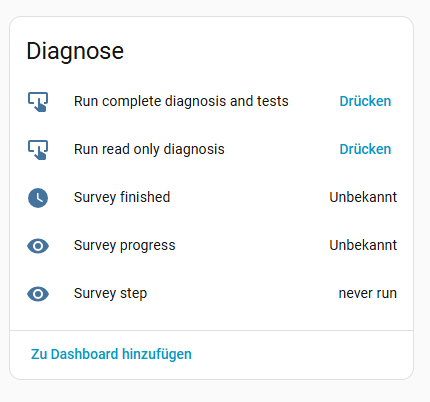
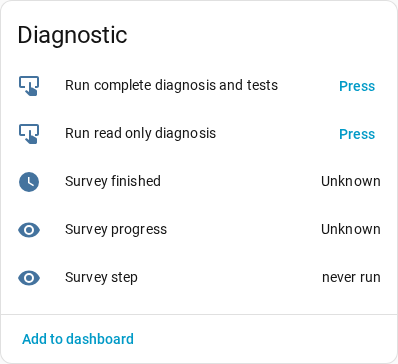
Screenshots in English, and two config-flow display bugs they showed
- The address form printed "Translation [formatjs Error: MISSING_VALUE]"
  on its first showing: its description ends in {error}, passed only after
  an error. Now passed empty from the start, with a test.
- Home Assistant renders a section's description as plain text, so every
  options section showed literal asterisks and the tier table as pipes.
  The six section texts are short plain text, the tier table is a
  sentence, and a test keeps markdown out of both.
- device-survey/images: the device page's card and the add-integration
  dialog retaken in English; the control test's options section is new and
  shown in doc/integration_options.md, which also says Polling opens
  expanded.
- doc/development.md: how to take these screenshots headless, against the
  simulator, from a scratch instance.

diff --git a/custom_components/sungrow_modbus/config_flow.py b/custom_components/sungrow_modbus/config_flow.py
@@ -993,7 +993,9 @@ class SungrowConfigFlow(ConfigFlow, domain=DOMAIN):
     ) -> ConfigFlowResult:
         """Take the connection details from the user."""
         errors: dict[str, str] = {}
-        placeholders: dict[str, str] = {}
+        # The description ends in `{error}`, so it must be present on the
+        # first showing too, or the frontend prints a formatjs error instead.
+        placeholders: dict[str, str] = {"error": ""}
 
         if user_input is not None:
             try:
@@ -2005,16 +2007,14 @@ class SungrowOptionsFlow(OptionsFlow):
 
     @callback
     def _async_tier_table(self, current: dict[str, int]) -> dict[str, str]:
-        """Return a markdown table of what each tier actually reads.
+        """Return what each tier actually reads, as one plain sentence.
 
-        A config-flow form cannot render a data table, so this goes into the
-        step description as markdown. It answers the question four bare
-        numbers raise and cannot: what am I slowing down?
+        It answers the question four bare numbers raise and cannot: what am
+        I slowing down? Plain text, because Home Assistant renders a
+        section's description without markdown, so a table would arrive as a
+        row of pipes.
         """
-        rows = [
-            "| Tier | Interval | Registers | Includes |",
-            "| --- | --- | --- | --- |",
-        ]
+        parts = []
         for tier, components in TIER_COMPONENTS.items():
             fields = sorted(
                 name
@@ -2022,10 +2022,12 @@ class SungrowOptionsFlow(OptionsFlow):
                 for name in COMPONENTS[component].declared_fields
             )
             interval = current.get(tier, DEFAULT_INTERVALS[tier])
-            shown = "**never**" if interval == INTERVAL_NEVER else f"{interval} s"
+            shown = "never" if interval == INTERVAL_NEVER else f"every {interval} s"
             examples = ", ".join(name.replace("_", " ") for name in fields[:3])
-            rows.append(f"| `{tier}` | {shown} | {len(fields)} | {examples}, … |")
-        return {"tiers": "\n".join(rows)}
+            parts.append(
+                f"{tier.capitalize()}, {shown}: {len(fields)} registers ({examples}, …)"
+            )
+        return {"tiers": "; ".join(parts) + "."}
 
     @callback
     def _async_load_now(self) -> str:
@@ -2049,13 +2051,13 @@ class SungrowOptionsFlow(OptionsFlow):
             return "The inverter has not reported a load figure yet."
         if reported < 0:
             return (
-                f"Right now this inverter reports a house load of **{reported:.0f} W**."
+                f"Right now this inverter reports a house load of {reported:.0f} W."
                 " A negative load is what an unmetered generator looks like: the"
                 " house appears to be using less than nothing because something is"
                 " producing that the inverter cannot see."
             )
         return (
-            f"Right now this inverter reports a house load of **{reported:.0f} W**, "
+            f"Right now this inverter reports a house load of {reported:.0f} W, "
             "which does not include anything it cannot see."
         )
 
@@ -2067,7 +2069,7 @@ class SungrowOptionsFlow(OptionsFlow):
         no register reaches -- whether a dongle is on its cable or its WiFi,
         which is not determinable and not guessed.
 
-        **It asks register 6100, not 13265**, and the difference is a wrong
+        It asks register 6100, not 13265, and the difference is a wrong
         answer rather than a detail. 13265 names the communication module
         that is *fitted*; 6100 says which path this endpoint actually is,
         because Sungrow does not forward the 6100 block through a dongle. A
@@ -2109,7 +2111,7 @@ class SungrowOptionsFlow(OptionsFlow):
             route = (
                 "reached through a communication module, so a WiNet-S, WiNet-S2 "
                 "or Logger is in the path — register 6100 was refused. Whether it "
-                "is using its Ethernet socket or its WiFi is **not** determinable "
+                "is using its Ethernet socket or its WiFi is not determinable "
                 "over Modbus, and that is the part only you can tell us"
             )
         else:
@@ -2130,13 +2132,13 @@ class SungrowOptionsFlow(OptionsFlow):
             # dongle is screwed to the wall needs to see that we know too,
             # or a correct "its own LAN port" reads as a mistake.
             fitted = (
-                f" A communication module is fitted and names itself **{module}**,"
+                f" A communication module is fitted and names itself {module},"
                 " which is a different question from which path this endpoint is:"
                 " a house can have a dongle and a cable at once."
             )
 
         return (
-            f"Already measured, so you do not need to tell us: this is **{model}**, "
+            f"Already measured, so you do not need to tell us: this is {model}, "
             f"{route}.{fitted}"
         )
 
@@ -2165,15 +2167,15 @@ class SungrowOptionsFlow(OptionsFlow):
 
         capacity = value("battery_capacity_high_precision")
         reported = (
-            f"Your battery reports **{capacity} kWh**" if capacity else "Your battery"
+            f"Your battery reports {capacity} kWh" if capacity else "Your battery"
         )
 
         if Capability.SUNGROW_BATTERY in runtime.capabilities:
             model = model_for_capacity(capacity)
             if model is not None:
                 return (
-                    f"{reported}, which matches a Sungrow **{model.name}**. Its "
-                    f"datasheet gives **{model.conservative_w} W** conservatively "
+                    f"{reported}, which matches a Sungrow {model.name}. Its "
+                    f"datasheet gives {model.conservative_w} W conservatively "
                     f"({model.nominal_w} W nominal), and that is what is used."
                 )
 
@@ -2184,12 +2186,12 @@ class SungrowOptionsFlow(OptionsFlow):
             return (
                 f"{reported}, which is not a Sungrow SBR or SBH. Its BMS reports a "
                 f"maximum charge current that works out to about "
-                f"**{suggestion} W** at the pack's current voltage — which reads "
+                f"{suggestion} W at the pack's current voltage — which reads "
                 "high at a high state of charge, so treat it as a starting point."
             )
         return (
             f"{reported}, and its BMS does not report a maximum charge current, so "
             f"there is nothing to derive one from. Without a value here the "
-            f"integration falls back to **{FALLBACK_W} W**, which is the YAML "
+            f"integration falls back to {FALLBACK_W} W, which is the YAML "
             "package's default rather than a recommendation."
         )

diff --git a/tests/test_polling_options.py b/tests/test_polling_options.py
@@ -155,7 +155,7 @@ async def test_the_options_flow_shows_what_each_group_contains(
 
     table = result["description_placeholders"]["tiers"]
     for tier in DEFAULT_INTERVALS:
-        assert f"`{tier}`" in table
+        assert tier.capitalize() in table
     # The register counts, so the trade is visible. Derived rather than
     # written down: this assertion was a literal `| 61 |` and broke the first
     # time a register was added to a tier, which says nothing about the table
@@ -164,7 +164,7 @@ async def test_the_options_flow_shows_what_each_group_contains(
         count = len(
             {name for c in components for name in COMPONENTS[c].declared_fields}
         )
-        assert f"| {count} |" in table, f"{tier} should show its {count} registers"
+        assert f"{count} registers" in table, f"{tier} should show its {count}"
     assert "load power" in table
 
 
@@ -327,3 +327,31 @@ async def test_the_permissions_step_leaves_the_other_options_alone(
     # as the default anyway -- but only because `DEFAULT_PERMISSIONS` is
     # merged in first, which is the part worth pinning.
     assert entry.options[CONF_PERMISSIONS].keys() == DEFAULT_PERMISSIONS.keys()
+
+
+async def test_the_options_sections_carry_no_markdown(
+    hass: HomeAssistant, sungrow_unit: MockModbusUnit
+) -> None:
+    """Home Assistant renders a section's description as plain text.
+
+    Asterisks, backticks and a table's pipes arrive on screen as they are,
+    and blank lines collapse, so neither the text nor what fills it may
+    carry any.
+    """
+    import json
+    from pathlib import Path
+
+    import custom_components.sungrow_modbus as component
+
+    strings = json.loads((Path(component.__file__).parent / "strings.json").read_text())
+    marks = ("**", "`", "|", "\n", "---")
+    for name, section in strings["options"]["step"]["init"]["sections"].items():
+        for mark in marks:
+            assert mark not in section["description"], (name, mark)
+
+    entry = await _setup(hass, sungrow_unit)
+    result = await hass.config_entries.options.async_init(entry.entry_id)
+    placeholders = result["description_placeholders"]
+    for name in ("tiers", "reported_load", "measured", "battery_status"):
+        for mark in marks:
+            assert mark not in placeholders[name], (name, mark)

diff --git a/tests/test_config_flow_connection.py b/tests/test_config_flow_connection.py
@@ -192,3 +192,35 @@ def test_a_wallbox_read_through_the_dongle_is_warned_about_before_a_cable() -> N
     assert not _loses_wallbox(with_wallbox, direct=None)
     assert not _loses_wallbox(own_address, direct=True)
     assert not _loses_wallbox(without, direct=True)
+
+
+async def test_the_address_form_has_every_placeholder_on_first_showing(
+    hass: HomeAssistant,
+) -> None:
+    """A placeholder missing from the first showing reads as a formatjs error.
+
+    The frontend renders `Translation [formatjs Error: MISSING_VALUE]` in
+    place of the whole description, which is what a user saw on the address
+    form until `error` was passed before any error had happened.
+    """
+    import json
+    from pathlib import Path
+    import re
+
+    import custom_components.sungrow_modbus as component
+
+    strings = json.loads((Path(component.__file__).parent / "strings.json").read_text())
+    wanted = set(
+        re.findall(r"{(\w+)}", strings["config"]["step"]["manual"]["description"])
+    )
+    result = await hass.config_entries.flow.async_init(
+        DOMAIN, context={"source": SOURCE_USER}
+    )
+    result = await hass.config_entries.flow.async_configure(
+        result["flow_id"], {"next_step_id": "setup_diagnostics"}
+    )
+    result = await hass.config_entries.flow.async_configure(
+        result["flow_id"], {"next_step_id": "manual"}
+    )
+    assert result["step_id"] == "manual"
+    assert wanted <= set(result["description_placeholders"] or {})

diff --git a/doc/development.md b/doc/development.md
@@ -325,6 +325,60 @@ a commit, a green CI run and a sync. HACS gets its own config directory
 because it downloads into `<config>/custom_components/`, which on the dev
 instance is a symlink into this repository.
 
+## Screenshots for the docs
+
+The images in `device-survey/images/` are taken headless, against the
+simulator, from a **second** Home Assistant. Never the one on :8123: its entry
+may point at real hardware, and a screenshot session clicks through flows.
+
+1. **A browser, outside the repository.** The container has none. Playwright
+   in a venv of its own, with its Chromium:
+
+   ```bash
+   python3 -m venv /tmp/pw && /tmp/pw/bin/pip install playwright
+   PLAYWRIGHT_BROWSERS_PATH=/tmp/pw/browsers /tmp/pw/bin/playwright install chromium
+   ```
+
+   The headless shell needs five libraries the image lacks. Without root,
+   unpack them beside it and point `LD_LIBRARY_PATH` there:
+
+   ```bash
+   mkdir -p /tmp/pw/debs /tmp/pw/lib && cd /tmp/pw/debs
+   apt-get download libatk1.0-0 libatk-bridge2.0-0 libxcomposite1 libxdamage1 libatspi2.0-0
+   for d in *.deb; do dpkg-deb -x "$d" /tmp/pw/lib; done
+   export LD_LIBRARY_PATH=/tmp/pw/lib/usr/lib/x86_64-linux-gnu
+   ```
+
+2. **A scratch instance on :8125.** Copy `config/configuration.yaml` into a
+   new directory, append `http: {server_port: 8125}`, symlink
+   `custom_components` into it as `develop.sh` does, start the simulator, run
+   `hass --config <dir>`, then `scripts/dev/ha_onboard.py --url
+   http://127.0.0.1:8125`. The first page asks to **confirm the new HTTP port**
+   and reverts it after a few minutes otherwise; confirm it.
+3. **Drive it.** Log in through the form (`dev` / `dev`) once and keep
+   `context.storage_state()`; use `locale="en-US"`, since the docs are
+   English. What the frontend needs:
+   - text inputs are `wa-input`: `locator("wa-input[name=host]")`, numbers
+     `locator("input[type=number]")`;
+   - buttons by role, `get_by_role("button", name="Submit")`: `get_by_text`
+     matches substrings, and a field's help text can contain "submit";
+   - the entry's cog on the integration page has no usable label; click it
+     by position;
+   - a flow left half-done blocks the next with "already being configured".
+     Restarting the scratch instance clears it.
+4. **Crop** with Pillow (`Image.crop`) to the dialog or card, and check the
+   result by eye before committing it.
+
+The HACS screenshots need the HACS testbed (`make hacs`) and a GitHub device
+login, so they are retaken only when HACS's dialogs change.
+
+**Looking is also a test.** A screenshot session is where these were found:
+a description placeholder missing on a step's first showing renders as
+`Translation [formatjs Error: MISSING_VALUE]`, and a section's description is
+plain text, so markdown in it arrives as literal asterisks and pipes. Both
+are now tests (`tests/test_config_flow_connection.py`,
+`tests/test_polling_options.py`).
+
 ## The survey on the device page
 
 A capability survey is what this project learns from. A tester with the

diff --git a/doc/integration_options.md b/doc/integration_options.md
@@ -2,8 +2,9 @@
 
 Everything **Settings → Devices & services → Sungrow Modbus (preview) →
 Configure** offers, with its default. The dialog explains each option in
-more detail; this page is where to find one before opening it. Sections
-start collapsed, and a section you do not open stays as it is.
+more detail; this page is where to find one before opening it. Every
+section but Polling starts collapsed, and a section you do not open stays as
+it is.
 
 The host and unit id are not here: changing them means a different device,
 which is **Reconfigure** on the same page.
@@ -72,6 +73,8 @@ your consent; the three switches below are the parts that go further, and
 **each is on until you switch it off**. Switch off what you do not want
 *before* pressing the button; what you switch off stays off. With all three
 off, the test still forces the battery and checks every setting's scale.
+
+<img src="../device-survey/images/HA-settings-configure-control-test.png" width="450" alt="The control write test section of the options dialog, with all three switches on">
 
 | Option | Default | What it does |
 | --- | --- | --- |

diff --git a/Todo.md b/Todo.md
@@ -14,9 +14,7 @@ Structure:
 
 # Next steps
 
-1. **A screenshot of the Configure dialog** with the control test section
-   open, beside the others in `device-survey/images/`, shown in
-   `doc/integration_options.md`.
+Nothing that can start now without a decision or a device.
 
 
 # Open decisions
